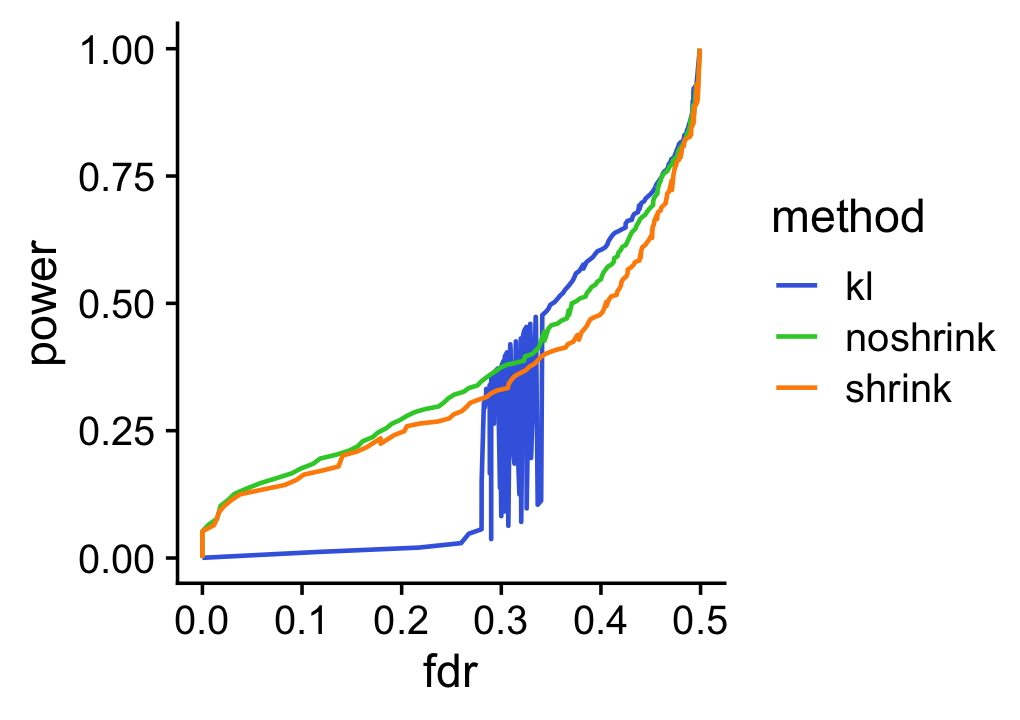
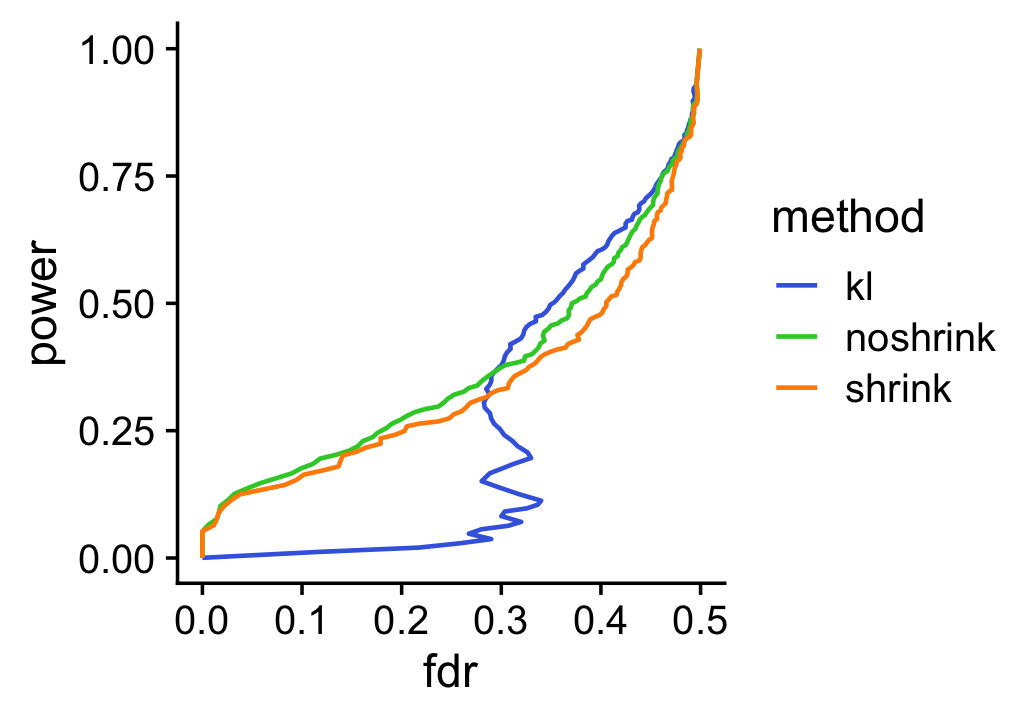
Fixed power vs. fdr plots in de_analysis_detailed_look analysis.

Changed region(s): [[0.4559, 0.4278, 0.5471, 0.7639], [0.6686, 0.0917, 0.699, 0.1528], [0.3647, 0.6111, 0.3951, 0.6417]]

diff --git a/docs/de_analysis_detailed_look.html b/docs/de_analysis_detailed_look.html
@@ -323,7 +323,7 @@ $(document).ready(function () {
 <div class="tab-content">
 <div id="summary" class="tab-pane fade in active">
 <p>
-<strong>Last updated:</strong> 2021-10-26
+<strong>Last updated:</strong> 2021-11-10
 </p>
 <p>
 <strong>Checks:</strong> <span class="glyphicon glyphicon-ok text-success" aria-hidden="true"></span> 6 <span class="glyphicon glyphicon-exclamation-sign text-danger" aria-hidden="true"></span> 1
@@ -429,16 +429,16 @@ fit-poisson-nmf
 <div class="panel panel-default">
 <div class="panel-heading">
 <p class="panel-title">
-<a data-toggle="collapse" data-parent="#workflowr-checks" href="#strongRepositoryversionstrongahrefhttpsgithubcomstephenslabsinglecelltopicstreebd52791297b79fa16f492ed5f3d262d72eb0f604targetblankbd52791a"> <span class="glyphicon glyphicon-ok text-success" aria-hidden="true"></span> <strong>Repository version:</strong> <a href="https://github.com/stephenslab/single-cell-topics/tree/bd52791297b79fa16f492ed5f3d262d72eb0f604" target="_blank">bd52791</a> </a>
+<a data-toggle="collapse" data-parent="#workflowr-checks" href="#strongRepositoryversionstrongahrefhttpsgithubcomstephenslabsinglecelltopicstree0818502afcd8f7861007d54f63d18a9e8b7539ebtargetblank0818502a"> <span class="glyphicon glyphicon-ok text-success" aria-hidden="true"></span> <strong>Repository version:</strong> <a href="https://github.com/stephenslab/single-cell-topics/tree/0818502afcd8f7861007d54f63d18a9e8b7539eb" target="_blank">0818502</a> </a>
 </p>
 </div>
[2 lines of base64/hex data omitted]
 <div class="panel-body">
 <p>
 Great! You are using Git for version control. Tracking code development and connecting the code version to the results is critical for reproducibility.
 </p>
 <p>
-The results in this page were generated with repository version <a href="https://github.com/stephenslab/single-cell-topics/tree/bd52791297b79fa16f492ed5f3d262d72eb0f604" target="_blank">bd52791</a>. See the <em>Past versions</em> tab to see a history of the changes made to the R Markdown and HTML files.
+The results in this page were generated with repository version <a href="https://github.com/stephenslab/single-cell-topics/tree/0818502afcd8f7861007d54f63d18a9e8b7539eb" target="_blank">0818502</a>. See the <em>Past versions</em> tab to see a history of the changes made to the R Markdown and HTML files.
 </p>
 <p>
 Note that you need to be careful to ensure that all relevant files for the analysis have been committed to Git prior to generating the results (you can use <code>wflow_publish</code> or <code>wflow_git_commit</code>). workflowr only checks the R Markdown file, but you know if there are other scripts or data files that it depends on. Below is the status of the Git repository when the results were generated:
@@ -464,6 +464,7 @@ Untracked files:
     Untracked:  analysis/de_analysis_detailed_look_cache/
     Untracked:  analysis/de_analysis_detailed_look_more_cache/
     Untracked:  plots/
+    Untracked:  scripts/pbmc_purified_for_de.RData
 
 Unstaged changes:
     Modified:   analysis/de_analysis_detailed_look_more.Rmd
@@ -505,6 +506,57 @@ Message
 </tr>
 </thead>
 <tbody>
+<tr>
+<td>
+Rmd
+</td>
+<td>
+<a href="https://github.com/stephenslab/single-cell-topics/blob/0818502afcd8f7861007d54f63d18a9e8b7539eb/analysis/de_analysis_detailed_look.Rmd" target="_blank">0818502</a>
+</td>
+<td>
+Peter Carbonetto
+</td>
+<td>
+2021-11-10
+</td>
+<td>
+workflowr::wflow_publish(“de_analysis_detailed_look.Rmd”, verbose = TRUE)
+</td>
+</tr>
+<tr>
+<td>
+Rmd
+</td>
+<td>
+<a href="https://github.com/stephenslab/single-cell-topics/blob/caa13f1f2e3c50405f87538bb176e584cd0b553a/analysis/de_analysis_detailed_look.Rmd" target="_blank">caa13f1</a>
+</td>
+<td>
+Peter Carbonetto
+</td>
+<td>
+2021-11-08
+</td>
+<td>
+Still working on DE analysis scripts.
+</td>
+</tr>
+<tr>
+<td>
+html
+</td>
+<td>
+<a href="https://rawcdn.githack.com/stephenslab/single-cell-topics/043e480322dc887e1cc443bfcba43f91ab0a0f19/docs/de_analysis_detailed_look.html" target="_blank">043e480</a>
+</td>
+<td>
+Peter Carbonetto
+</td>
+<td>
+2021-10-26
+</td>
+<td>
+Fixed ROC curves in de_analysis_detailed_look analysis.
+</td>
+</tr>
 <tr>
 <td>
 Rmd
@@ -2103,7 +2155,7 @@ pdat  &lt;- rbind(cbind(pdat1,method = &quot;kl&quot;),
                cbind(pdat2,method = &quot;noshrink&quot;),
                cbind(pdat3,method = &quot;shrink&quot;))
 ggplot(pdat,aes(x = fdr,y = power,color = method)) +
-  geom_line(size = 0.65)  +
+  geom_line(size = 0.65,orientation = &quot;y&quot;)  +
   scale_color_manual(values = c(&quot;royalblue&quot;,&quot;limegreen&quot;,&quot;darkorange&quot;)) +
   theme_cowplot()</code></pre>
 <p><img src="figure/de_analysis_detailed_look.Rmd/kl-vs-fasttopics-2-1.png" width="510" style="display: block; margin: auto;" /></p>
@@ -2182,6 +2234,17 @@ Date
 <tbody>
 <tr>
 <td>
+<a href="https://github.com/stephenslab/single-cell-topics/blob/043e480322dc887e1cc443bfcba43f91ab0a0f19/docs/figure/de_analysis_detailed_look.Rmd/kl-vs-fasttopics-3-1.png" target="_blank">043e480</a>
+</td>
+<td>
+Peter Carbonetto
+</td>
+<td>
+2021-10-26
+</td>
+</tr>
+<tr>
+<td>
 <a href="https://github.com/stephenslab/single-cell-topics/blob/b7503caa46b8ec7259f7fadd1b7ed59cd2c57864/docs/figure/de_analysis_detailed_look.Rmd/kl-vs-fasttopics-3-1.png" target="_blank">b7503ca</a>
 </td>
 <td>
@@ -2198,7 +2261,7 @@ Peter Carbonetto
 </div>
 <div id="assessing-accuracy-of-the-monte-carlo-estimates" class="section level2">
 <h2>Assessing accuracy of the Monte Carlo estimates</h2>
-<p>We use a simple MCMC algorithm to estimate LFC posterior statistics. To assess accuracy of the posterior calculations, we erform the DE analysis twice, and compare the <span class="math inline">\(z\)</span>-scores returned by the two <code>de_analysis</code> runs. If the <span class="math inline">\(z\)</span>-scores are very consistent between the two runs this suggests that they are mostly accurate.</p>
+<p>We use a simple MCMC algorithm to estimate LFC posterior statistics. To assess accuracy of the posterior calculations, we perform the DE analysis twice, and compare the <span class="math inline">\(z\)</span>-scores returned by the two <code>de_analysis</code> runs. If the <span class="math inline">\(z\)</span>-scores are very consistent between the two runs this suggests that they are mostly accurate.</p>
 <p>To illustrate, we first compute the posteriors using 1,000 Monte Carlo samples:</p>
 <pre class="r"><code>set.seed(1); de1 &lt;- de_analysis(fit,X,control = list(ns = 1000,nc = 2))
 # Using 2 RcppParallel threads.
@@ -2540,7 +2603,7 @@ pdat2 &lt;- create_fdr_vs_power_curve(de$lfsr[,2],nonzero_lfc,length.out = 200)
 pdat  &lt;- rbind(cbind(pdat1,method = &quot;DESeq2&quot;),
                cbind(pdat2,method = &quot;fastTopics&quot;))
 ggplot(pdat,aes(x = fdr,y = power,color = method)) +
-  geom_line(size = 0.65)  +
+  geom_line(size = 0.65,orientation = &quot;y&quot;)  +
   scale_color_manual(values = c(&quot;darkblue&quot;,&quot;tomato&quot;)) +
   theme_cowplot()</code></pre>
 <p><img src="figure/de_analysis_detailed_look.Rmd/fasttopics-vs-deseq2-power-1.png" width="540" style="display: block; margin: auto;" /></p>
